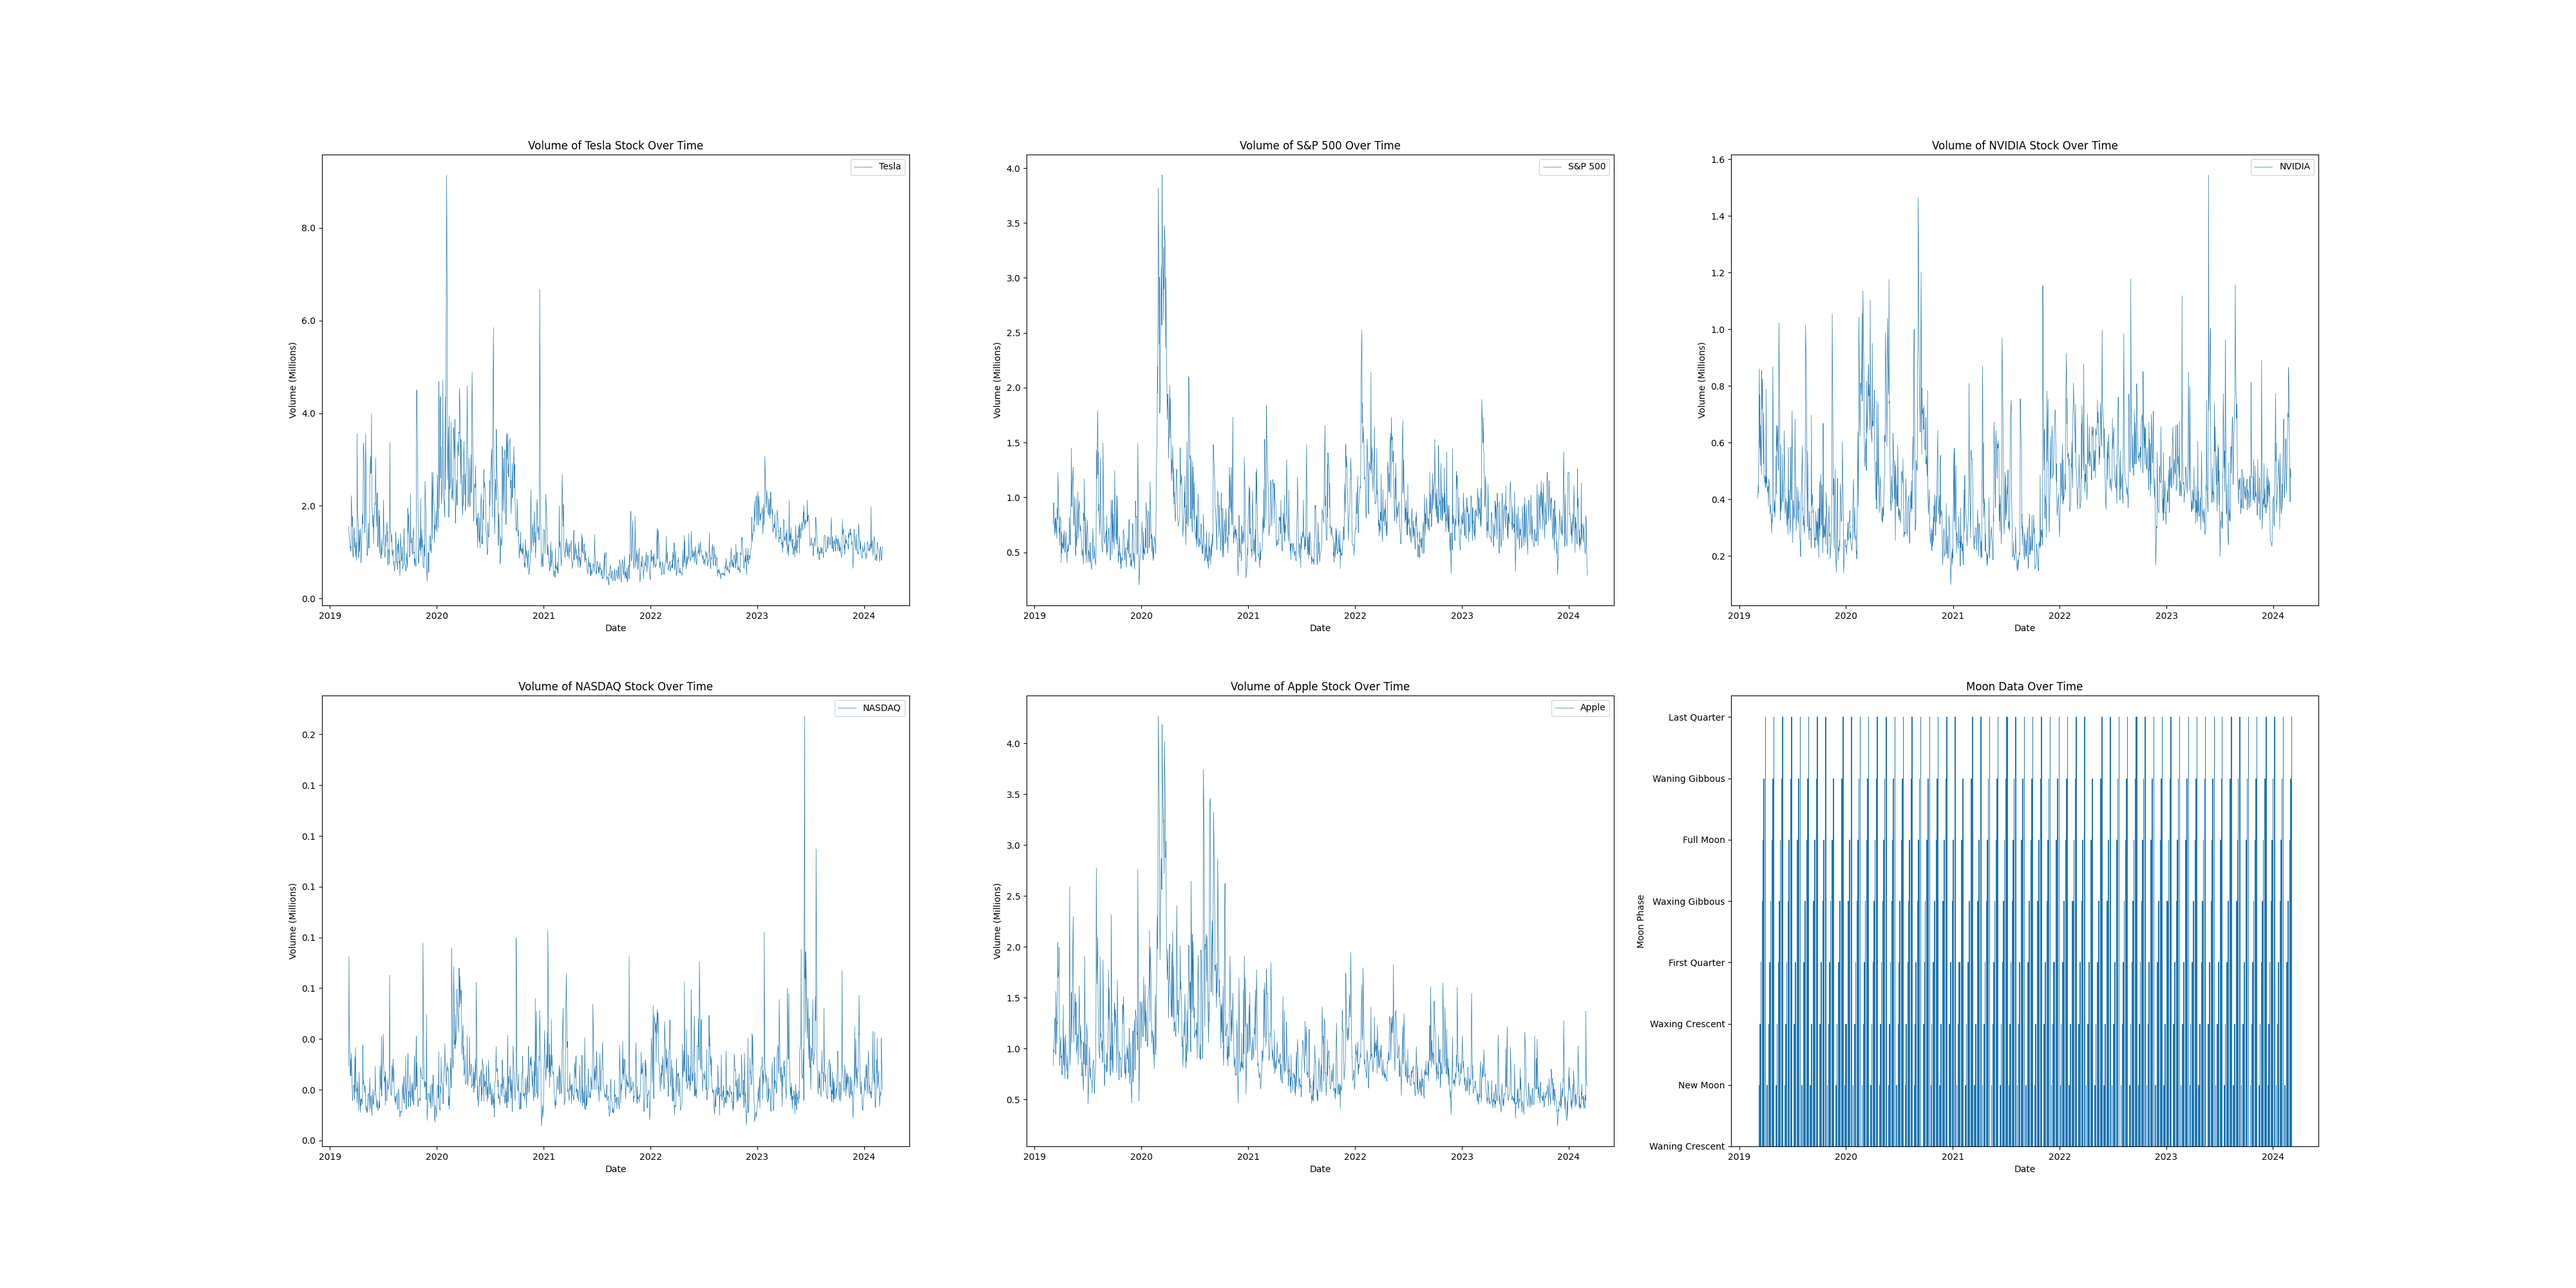
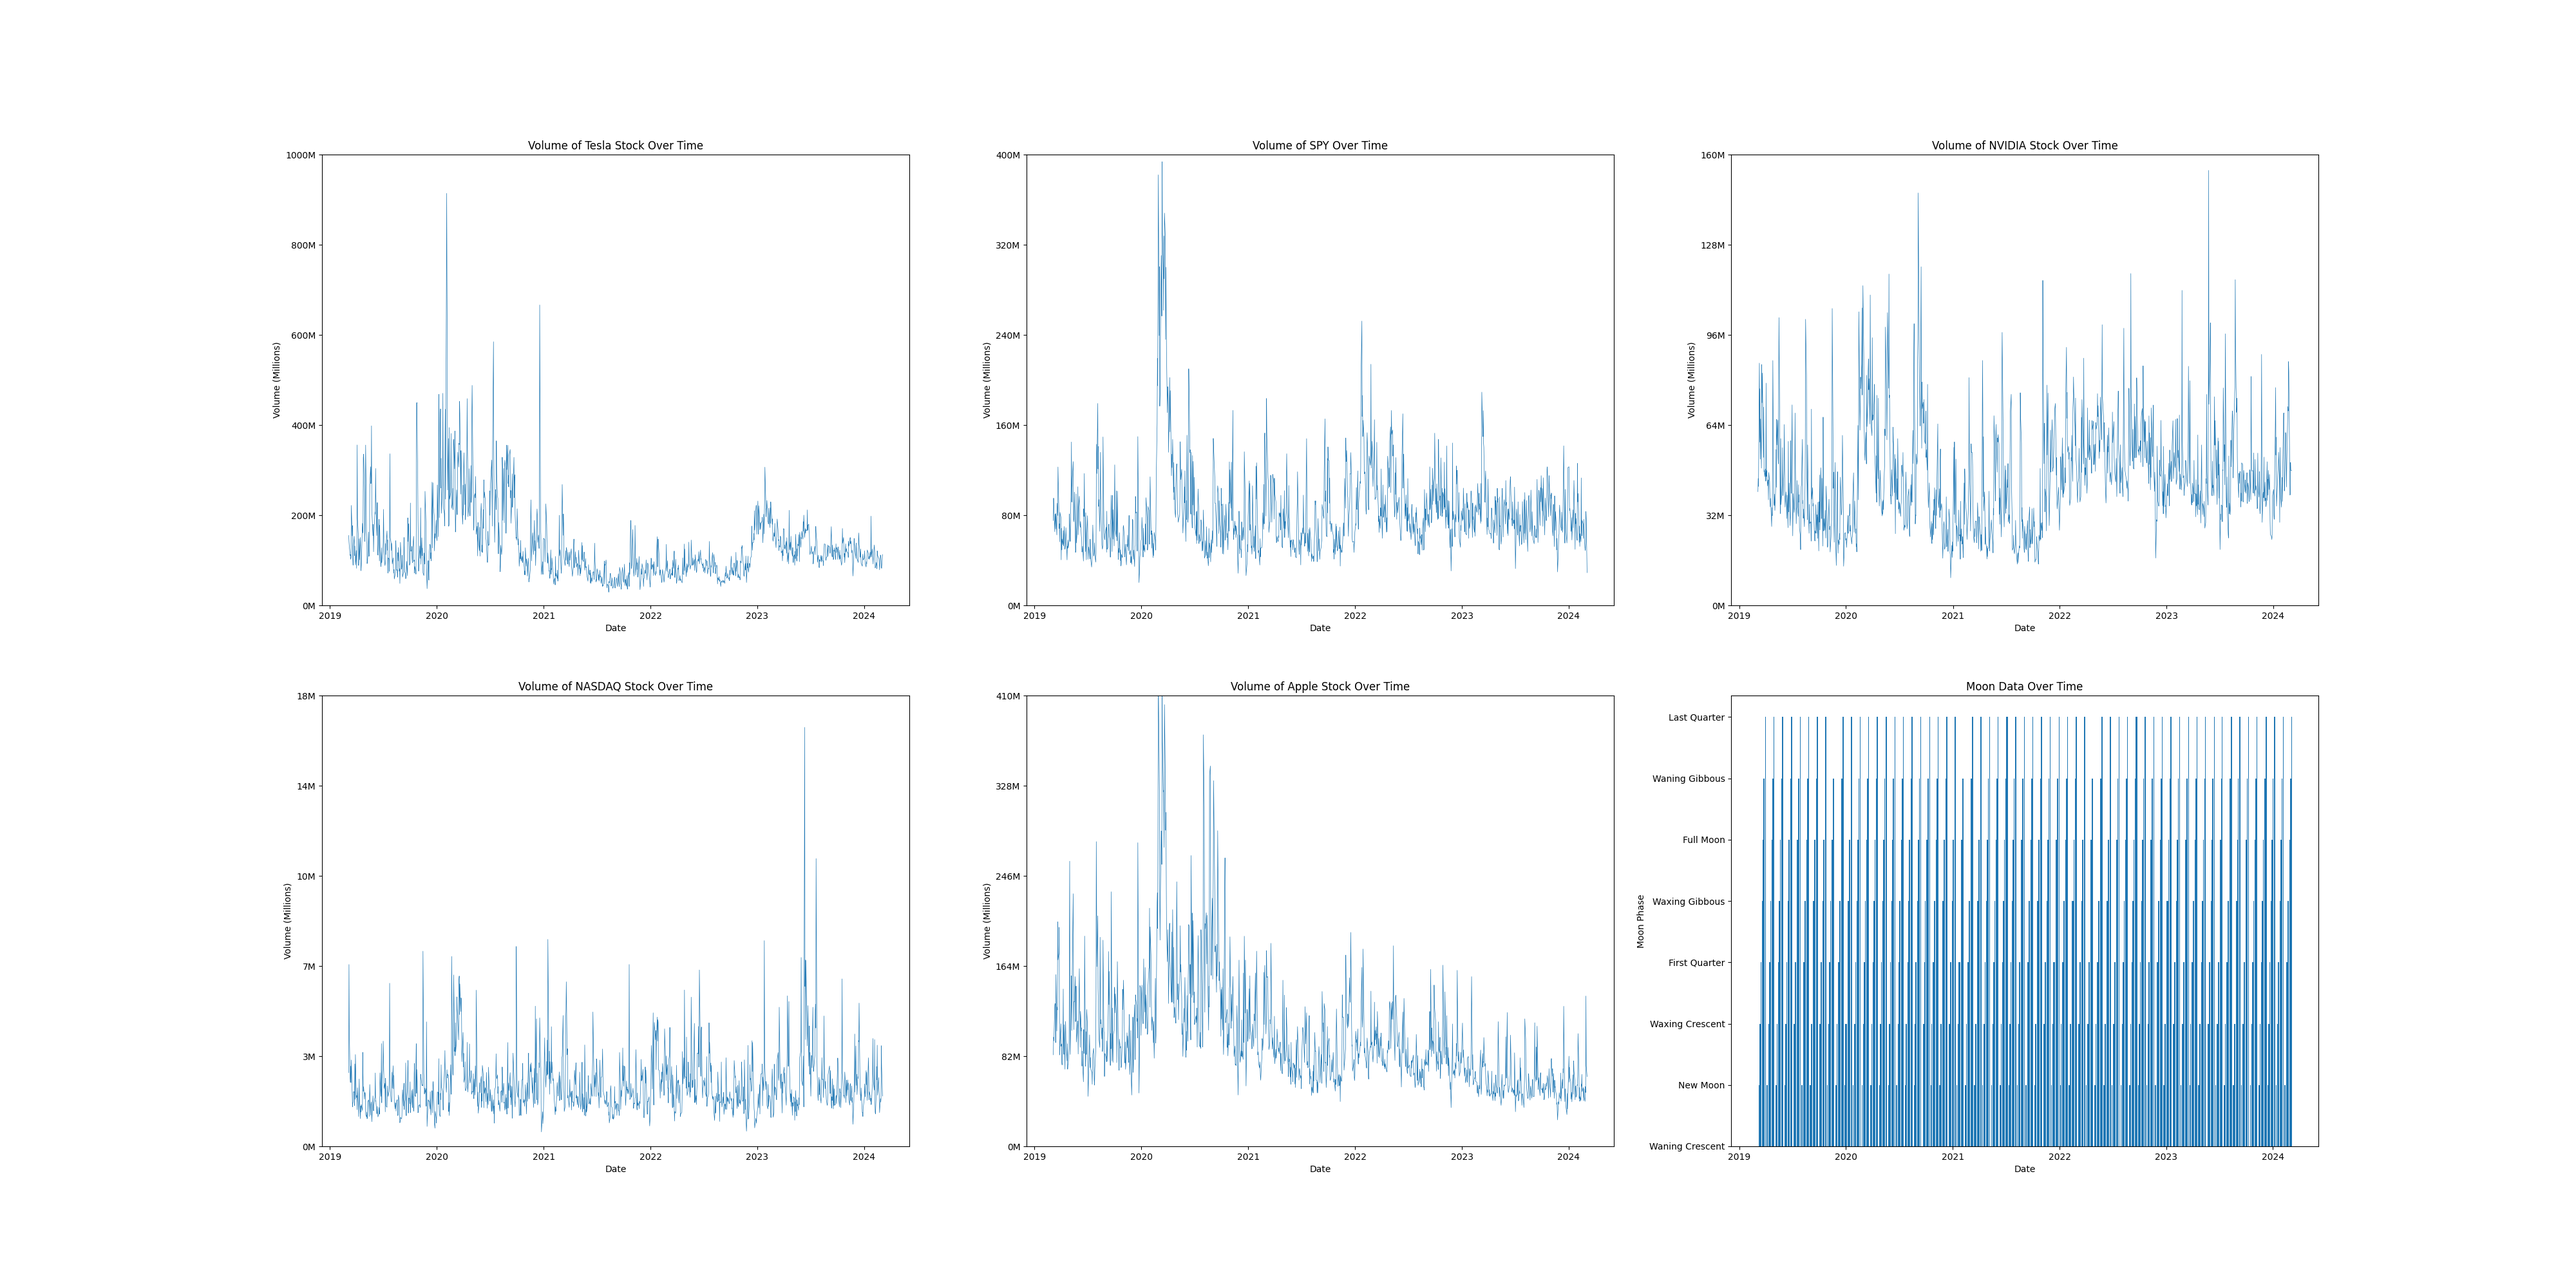
Tweaked the Volume Plots for better y-value readability
Tweaked the Volume Plots for better y-value readability

diff --git a/analysis_files/Emilio/volume_moon_correlation_visuals.py b/analysis_files/Emilio/volume_moon_correlation_visuals.py
@@ -1,18 +1,6 @@
 # Visuals for the moon phases and the volume of each stock starting from 2019-01-01 - current date as a bar graph and line graph respectively
 # to look for a correlation between the volume of each stock to the moon phases to see if they relate to each other
 
-# Results from the data:
-# ----------------------
-# 1) The plots in "volume_plots.png" of the volume graphs for each stock and the moon phase over time from a general and full 5-year scope,
-#    it shows that they're consistent and are volatile in unision with barely any inconsistencies.
-# 2) The plots in "volume_plots_2.png" of the correlation between the volume vs new moon phase, volume vs full moon phase and volume vs all moon phases
-#    with the pearson's correlation coefficient as heatwave and scatterplot visuals respectively. The correlation that's within the plots are that
-#    at new moon, the volume of all stocks are negatively impacted while at full moon and against all moon phases, volume of Apple and NASDAQ stock have
-#    mostly negative correlation with a bit of neutral correlation.
-# 3) The plots in "volume_plots_3.png" of cross-correlation visuals between the stocks and the new moon, full moon and all moon phases respectively.
-#    show decreasing of volume over time.
-# 4) From the sets of graphs and visuals, it seems that it has been a landslide of volume of stocks being negatively impacted.
-
 import csv
 import matplotlib.pyplot as plt
 import matplotlib.ticker as ticker
@@ -104,52 +92,89 @@ moon_dates, moon_phases = read_moonphase_csv_file(moon_phases_file)
 fig, ([ax1, ax2, ax3], [ax4, ax5, ax6]) = plt.subplots(2, 3, figsize=(40, 20))
 
 def volume_tesla_graph(): # Plotting the line graph (volume data) for Tesla stock
+    # Plotting the line graph (volume data) for Tesla stock
     ax1.plot(tesla_dates, tesla_volume, label='Tesla', linewidth=0.5)
     ax1.set_xlabel('Date')
     ax1.set_ylabel('Volume (Millions)')
     ax1.set_title('Volume of Tesla Stock Over Time')
-    ax1.legend()
+    # Set y-axis limits
+    ax1.set_ylim(0, 1000000000)
+    # Set y-axis ticks
+    num_ticks = 5
+    tick_values = [tick * 200000000 for tick in range(num_ticks + 1)]
+    ax1.set_yticks(tick_values)
+    # Format y-axis tick labels
+    tick_labels = [f'{tick // 1000000}M' for tick in tick_values]
+    ax1.set_yticklabels(tick_labels)
 volume_tesla_graph()
 
-def volume_sp500_graph(): # Plotting the line graph (volume data) for S&P 500 stock
-    ax2.plot(spy_dates, spy_volume, label='S&P 500', linewidth=0.5)
+def volume_spy_graph(): # Plotting the line graph (volume data) for SPY stock
+    # Plotting the line graph (volume data) for SPY stock
+    ax2.plot(spy_dates, spy_volume, label='SPY', linewidth=0.5)
     ax2.set_xlabel('Date')
     ax2.set_ylabel('Volume (Millions)')
-    ax2.set_title('Volume of S&P 500 Over Time')
-    ax2.legend()
-volume_sp500_graph()
+    ax2.set_title('Volume of SPY Over Time')
+    # Set y-axis limits
+    ax2.set_ylim(0, 400000000)
+    # Set y-axis ticks
+    num_ticks = 5
+    tick_values = [tick * 80000000 for tick in range(num_ticks + 1)]
+    ax2.set_yticks(tick_values)
+    # Format y-axis tick labels
+    tick_labels = [f'{tick // 1000000}M' for tick in tick_values]
+    ax2.set_yticklabels(tick_labels)
+volume_spy_graph()
 
 def volume_nvidia_graph(): # Plotting the line graph (volume data) for NVIDIA stock
+    # Plotting the line graph (volume data) for NVIDIA stock
     ax3.plot(nvidia_dates, nvidia_volume, label='NVIDIA', linewidth=0.5)
     ax3.set_xlabel('Date')
     ax3.set_ylabel('Volume (Millions)')
     ax3.set_title('Volume of NVIDIA Stock Over Time')
-    ax3.legend()
+    # Set y-axis limits
+    ax3.set_ylim(0, 160000000)
+    # Set y-axis ticks
+    num_ticks = 5
+    tick_values = [tick * 32000000 for tick in range(num_ticks + 1)]
+    ax3.set_yticks(tick_values)
+    # Format y-axis tick labels
+    tick_labels = [f'{tick // 1000000}M' for tick in tick_values]
+    ax3.set_yticklabels(tick_labels)
 volume_nvidia_graph()
 
 def volume_nasdaq_graph(): # Plotting the line graph (volume data) for NASDAQ stock
+    # Plotting the line graph (volume data) for NASDAQ stock
     ax4.plot(nasdaq_dates, nasdaq_volume, label='NASDAQ', linewidth=0.5)
     ax4.set_xlabel('Date')
     ax4.set_ylabel('Volume (Millions)')
     ax4.set_title('Volume of NASDAQ Stock Over Time')
-    ax4.legend()
+    # Set y-axis limits
+    ax4.set_ylim(0, 18000000)
+    # Set y-axis ticks
+    num_ticks = 5
+    tick_values = [tick * 3600000 for tick in range(num_ticks + 1)]
+    ax4.set_yticks(tick_values)
+    # Format y-axis tick labels
+    tick_labels = [f'{tick // 1000000}M' for tick in tick_values]
+    ax4.set_yticklabels(tick_labels)
 volume_nasdaq_graph()
 
 def volume_apple_graph(): # Plotting the line graph (volume data) for Apple stock
+    # Plotting the line graph (volume data) for Apple stock
     ax5.plot(apple_dates, apple_volume, label='Apple', linewidth=0.5)
     ax5.set_xlabel('Date')
     ax5.set_ylabel('Volume (Millions)')
     ax5.set_title('Volume of Apple Stock Over Time')
-    ax5.legend()
+    # Set y-axis limits
+    ax5.set_ylim(0, 410000000)
+    # Set y-axis ticks
+    num_ticks = 5
+    tick_values = [tick * 82000000 for tick in range(num_ticks + 1)]
+    ax5.set_yticks(tick_values)
+    # Format y-axis tick labels
+    tick_labels = [f'{tick // 1000000}M' for tick in tick_values]
+    ax5.set_yticklabels(tick_labels)
 volume_apple_graph()
-
-def format_y_axis_labels(): # Format y-axis labels of the line graph as millions
-    ax1.yaxis.set_major_formatter(ticker.FuncFormatter(lambda x, pos: '{:.1f}'.format(x * 1e-8)))
-    ax2.yaxis.set_major_formatter(ticker.FuncFormatter(lambda x, pos: '{:.1f}'.format(x * 1e-8)))
-    ax3.yaxis.set_major_formatter(ticker.FuncFormatter(lambda x, pos: '{:.1f}'.format(x * 1e-8)))
-    ax4.yaxis.set_major_formatter(ticker.FuncFormatter(lambda x, pos: '{:.1f}'.format(x * 1e-8)))
-    ax5.yaxis.set_major_formatter(ticker.FuncFormatter(lambda x, pos: '{:.1f}'.format(x * 1e-8)))
-format_y_axis_labels()
 
 def moon_phase_graph(): # Plotting the bar graph
     ax6.bar(moon_dates, moon_phases)
@@ -223,10 +248,7 @@ def cross_correlation_visual_all_moonphases(): # Visualize the correlation betwe
     ax9.legend()
 cross_correlation_visual_all_moonphases()
 
-# Create a figure with 6 subplots: cross-correlation plots and ...
-fig3, ([ax13, ax14, ax15], [ax16, ax17, ax18]) = plt.subplots(2, 3, figsize=(20, 20))
-
-def average_daily_stock_volume_moon_phase():
+def average_daily_stock_volume_change_percentage_moon_phase():
     moon_phases_filter = ['New Moon', 'Waxing Crescent Moon', 'First Quarter Moon', 'Waxing Gibbous Moon', 'Full Moon', 'Waning Gibbous Moon', 'Last Quarter Moon', 'Waning Crescent Moon']
     filtered_data = df_combined[df_combined['Moon Phase'].isin(moon_phases_filter)]
     filtered_data = filtered_data.dropna(subset=['Apple Volume', 'NASDAQ Volume', 'NVIDIA Volume', 'SPY Volume', 'Tesla Volume'])
@@ -236,24 +258,78 @@ def average_daily_stock_volume_moon_phase():
     average_volume_nvidia = filtered_data['NVIDIA Volume'].mean()
     average_volume_spy = filtered_data['SPY Volume'].mean()
     average_volume_tesla = filtered_data['Tesla Volume'].mean()
-    # Create a bar graph of the average daily volume for each stock
+    # Calculate the volume change percentage for each stock
+    initial_volumes = [filtered_data['Apple Volume'].iloc[0], filtered_data['NASDAQ Volume'].iloc[0], filtered_data['NVIDIA Volume'].iloc[0], filtered_data['SPY Volume'].iloc[0], filtered_data['Tesla Volume'].iloc[0]]
+    volume_changes = [(average_volume_apple - initial_volumes[0]) / initial_volumes[0] * 100,
+                      (average_volume_nasdaq - initial_volumes[1]) / initial_volumes[1] * 100,
+                      (average_volume_nvidia - initial_volumes[2]) / initial_volumes[2] * 100,
+                      (average_volume_spy - initial_volumes[3]) / initial_volumes[3] * 100,
+                      (average_volume_tesla - initial_volumes[4]) / initial_volumes[4] * 100]
+    # Create a bar graph of the average daily volume change percentage for each stock
     stocks = ['Apple', 'NASDAQ', 'NVIDIA', 'SPY', 'Tesla']
-    average_volumes = [average_volume_apple, average_volume_nasdaq, average_volume_nvidia, average_volume_spy, average_volume_tesla]
-    ax13.bar(stocks, average_volumes)
-    ax13.set_xlabel('Stock')
-    ax13.set_ylabel('Average Daily Volume (Billions)')
-    ax13.set_title('Average Daily Stock Volume by Stock')
-average_daily_stock_volume_moon_phase()
+    ax10.bar(stocks, volume_changes)
+    ax10.set_xlabel('Stock')
+    ax10.set_ylabel('Average Daily Volume Change (%)')
+    ax10.set_title('Average Daily Stock Volume Change (%) by Stock')
+average_daily_stock_volume_change_percentage_moon_phase()
+
+# Create a figure with 6 subplots: cross-correlation plots and ...
+fig3, ([ax13, ax14], [ax15, ax16], [ax17, ax18]) = plt.subplots(3, 2, figsize=(20, 20))
+
+def distribution_of_apple_volume_on_new_moon():
+    print("not done yet...")
+distribution_of_apple_volume_on_new_moon()
+
+def distribution_of_apple_volume_on_full_moon():
+    print("not done yet...")
+distribution_of_apple_volume_on_full_moon()
+
+def distribution_of_nasdaq_volume_on_new_moon():
+    print("not done yet...")
+distribution_of_nasdaq_volume_on_new_moon()
+
+def distribution_of_nasdaq_volume_on_full_moon():
+    print("not done yet...")
+distribution_of_nasdaq_volume_on_full_moon()
+
+def distribution_of_nvidia_volume_on_new_moon():
+    print("not done yet...")
+distribution_of_nvidia_volume_on_new_moon()
+
+def distribution_of_nvidia_volume_on_full_moon():
+    print("not done yet...")
+distribution_of_nvidia_volume_on_full_moon()
+
+# Create a figure with 6 subplots: cross-correlation plots and ...
+fig4, ([ax19, ax20],[ax21, ax22], [ax23, ax24]) = plt.subplots(3, 2, figsize=(20, 20))
+
+def distribution_of_spy_volume_on_new_moon():
+    print("not done yet...")
+distribution_of_spy_volume_on_new_moon()
+
+def distribution_of_spy_volume_on_full_moon():
+    print("not done yet...")
+distribution_of_spy_volume_on_full_moon()
+
+def distribution_of_tesla_volume_on_new_moon():
+    print("not done yet...")
+distribution_of_tesla_volume_on_new_moon()
+
+def distribution_of_tesla_volume_on_full_moon():
+    print("not done yet...")
+distribution_of_tesla_volume_on_full_moon()
 
 # Adjust the spacing between subplots
 fig.subplots_adjust(hspace=0.2, wspace=0.2)
 fig2.subplots_adjust(hspace=0.4, wspace=0.2)
 fig3.subplots_adjust(hspace=0.2, wspace=0.2)
+fig4.subplots_adjust(hspace=0.2, wspace=0.2)
 
 # Save the figures
-# fig.savefig("emilio_plots.png")
-fig2.savefig("emilio_plots_2.png")
-fig3.savefig("emilio_plots_3.png")
+fig.savefig("emilio_plots.png")
+# fig2.savefig("emilio_plots_2.png")
+# fig3.savefig("emilio_plots_3.png")
+# fig4.savefig("emilio_plots_4.png")
 
 # Show the figures
 plt.show()
